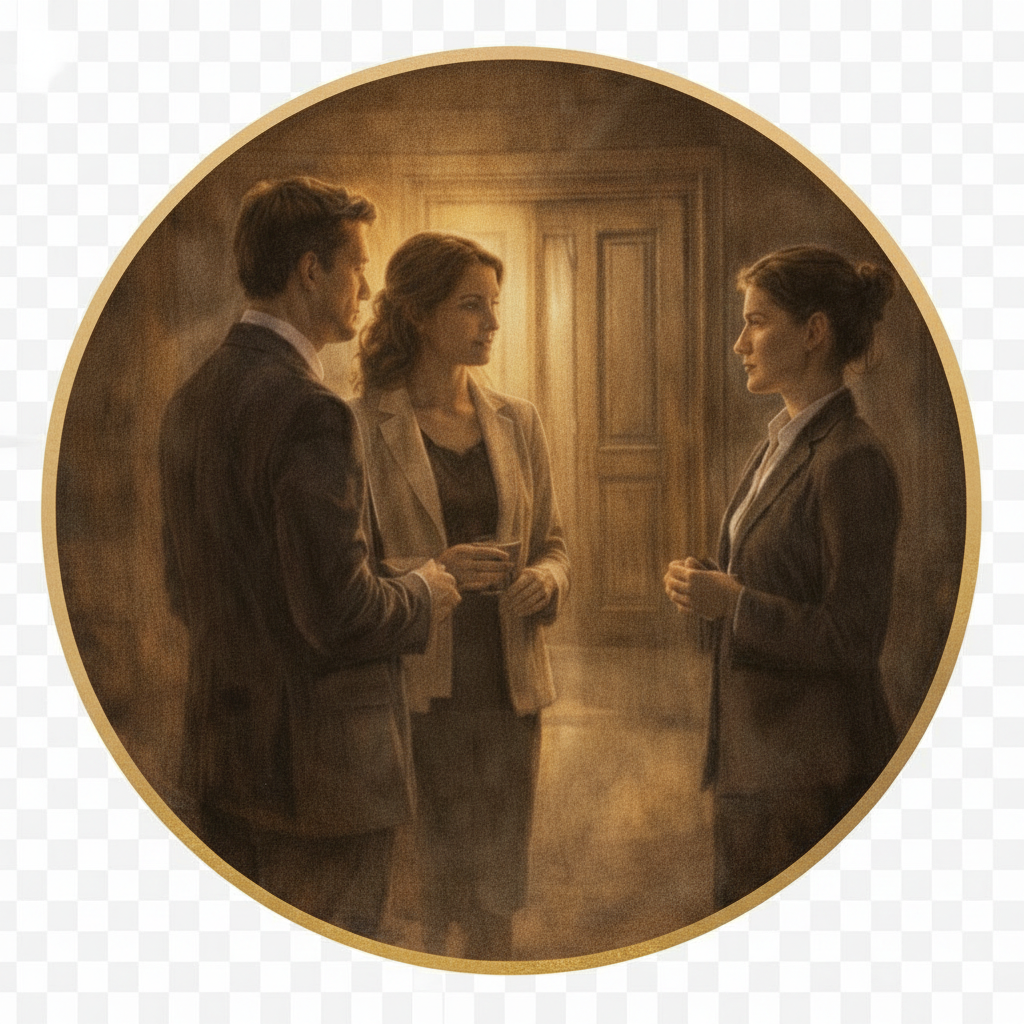
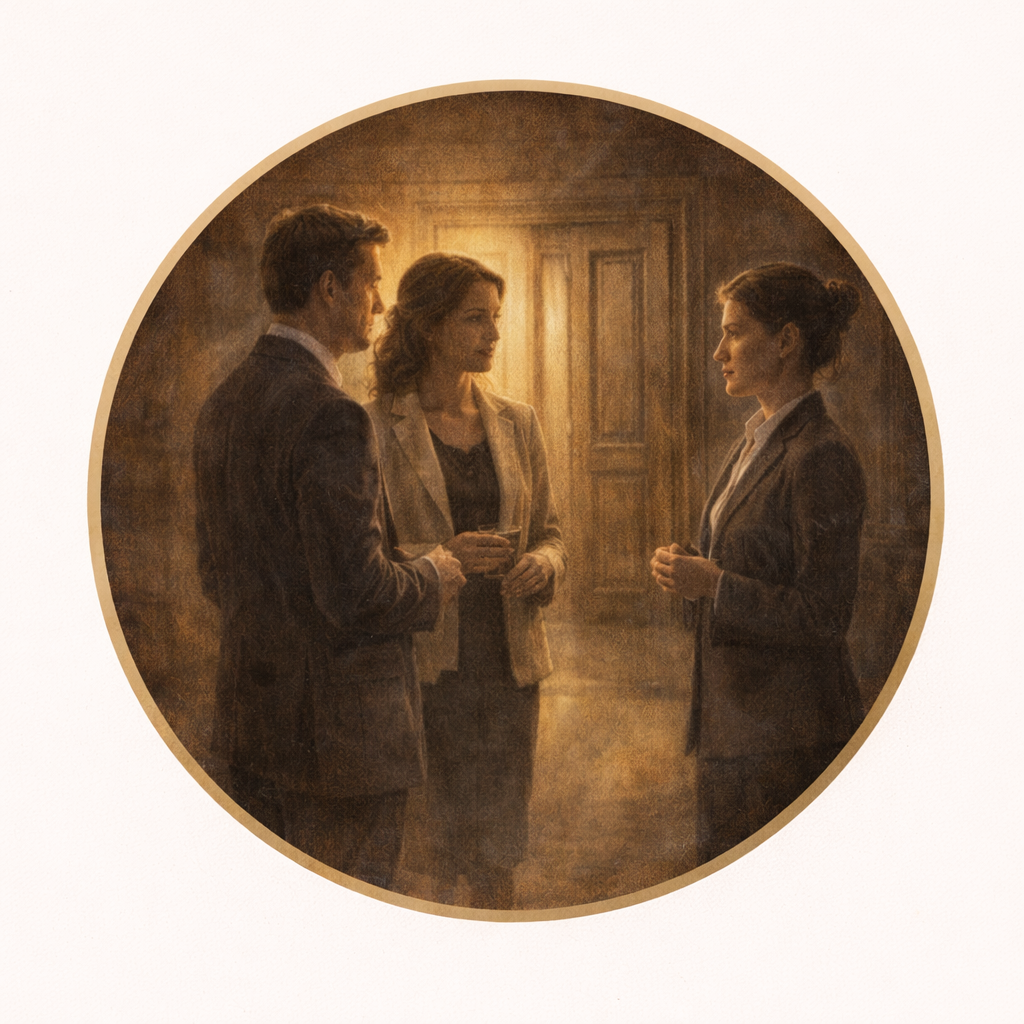
Changes

diff --git a/src/components/UniqueFormatSection.tsx b/src/components/UniqueFormatSection.tsx
@@ -11,11 +11,11 @@ interface FormatFeatureProps {
 const FormatFeature = ({ image, title, description }: FormatFeatureProps) => {
   return (
     <div className="text-center p-6 group">
-      <div className="w-32 h-32 mx-auto mb-4">
+      <div className="w-32 h-32 mx-auto mb-4 rounded-full overflow-hidden">
         <img 
           src={image} 
           alt={title}
-          className="w-full h-full object-contain"
+          className="w-full h-full object-cover scale-[1.02]"
         />
       </div>
       <h3 className="font-display text-xl md:text-2xl text-sepia mb-3">
